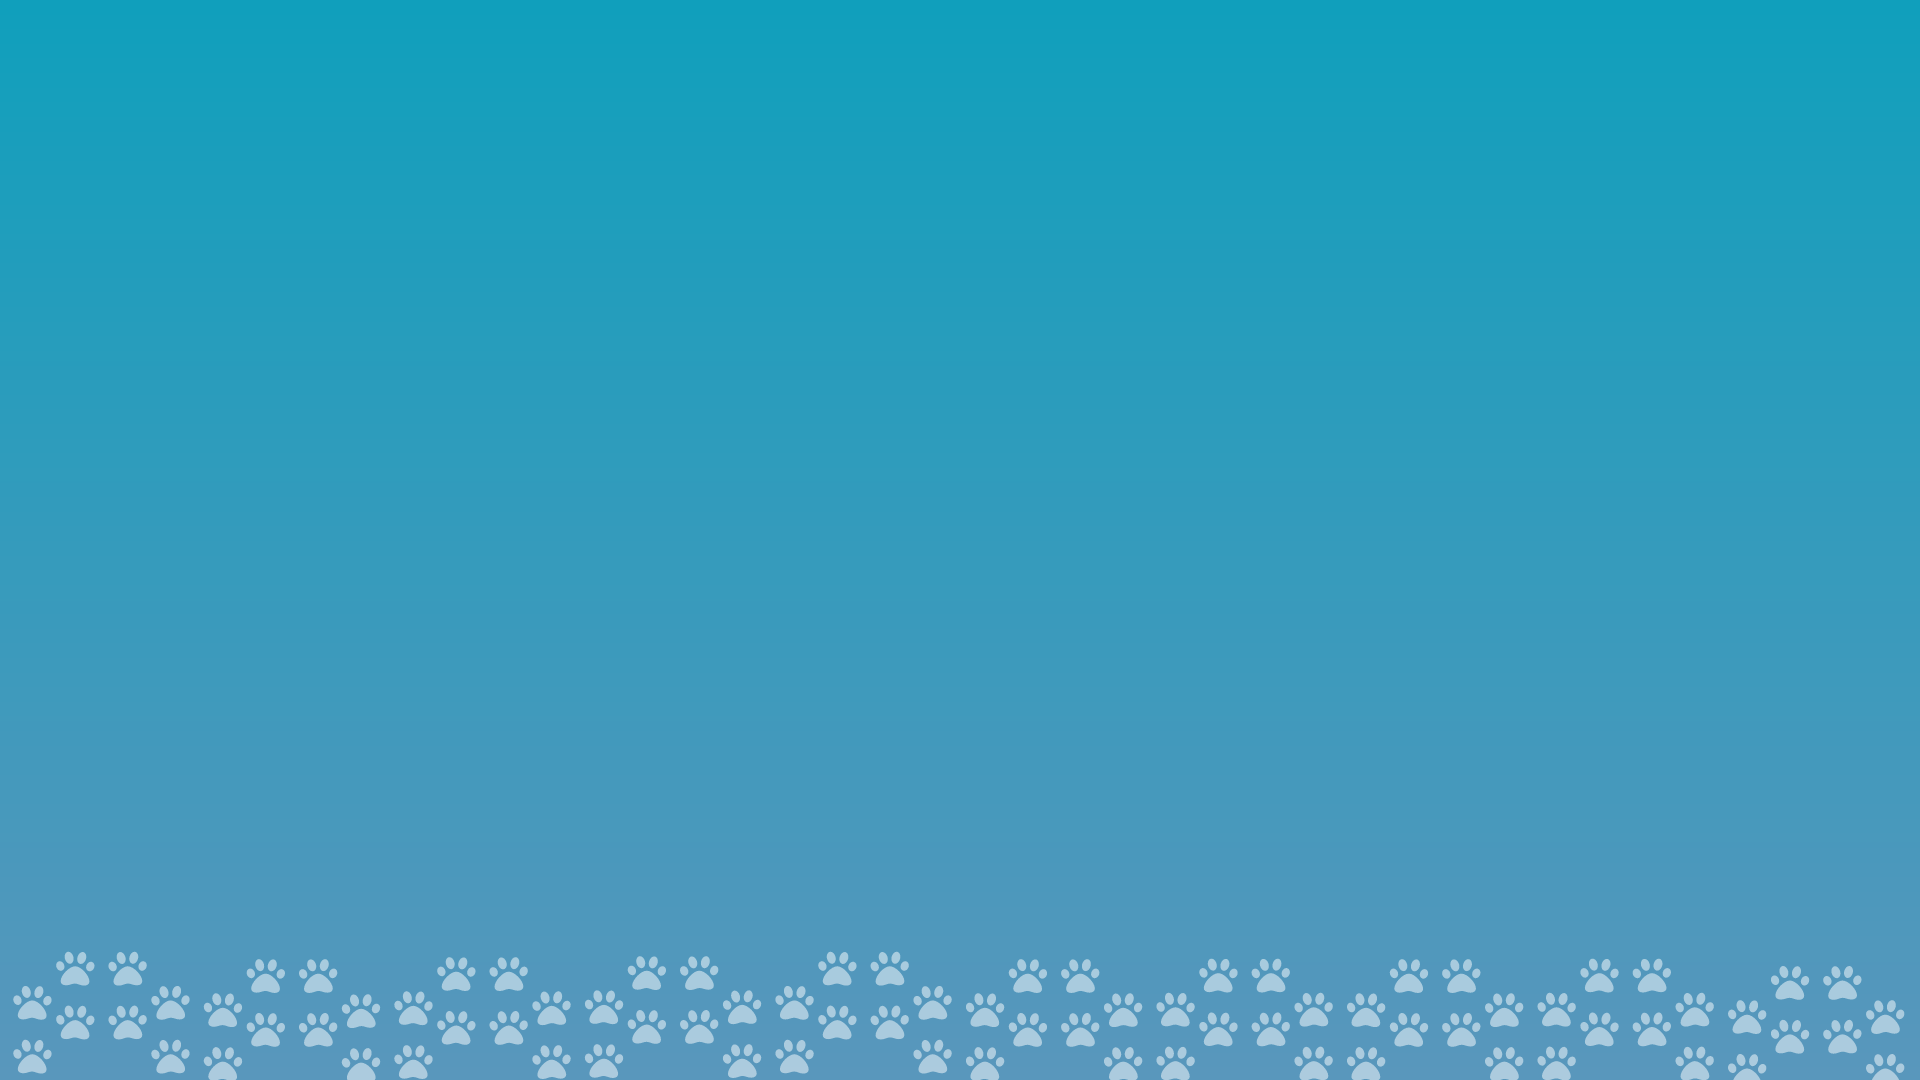
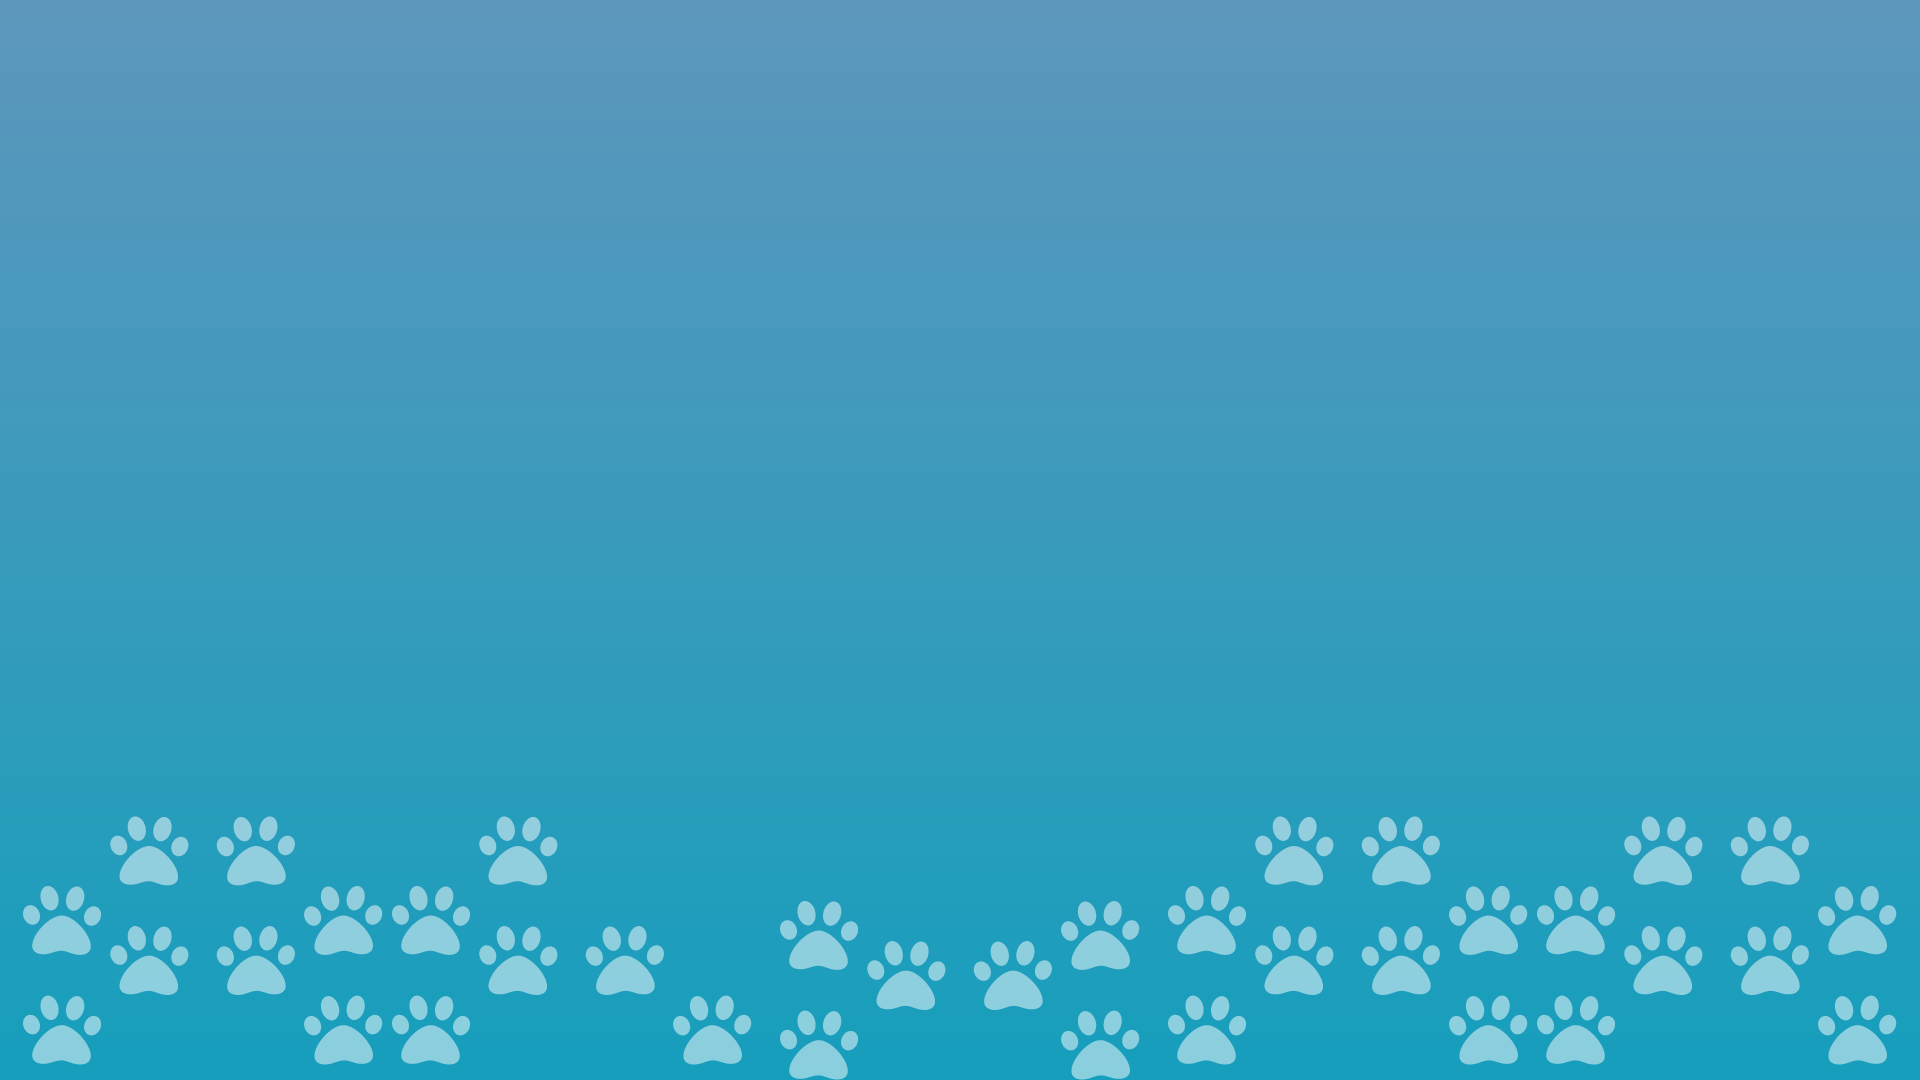
fix routes

diff --git a/petDiary/src/app/pages/login/login.module.ts b/petDiary/src/app/pages/login/login.module.ts
@@ -1,16 +1,25 @@
-import { NgModule } from '@angular/core';
+
 import { CommonModule } from '@angular/common';
-import { Routes, RouterModule } from '@angular/router';
-
-import { LoginRoutingModule } from './login-routing.module';
+import { NgModule } from '@angular/core';
+import { ReactiveFormsModule } from '@angular/forms';
+import { MatTableModule } from '@angular/material/table';
+import { MatCardModule } from '@angular/material/card';
+import { MatGridListModule } from '@angular/material/grid-list';
 import { LoginComponent } from './login.component';
+import { LoginPageRoutingModule } from './login-routing.module';
 
-export const ROUTES: Routes = [
-  { path: '', component: LoginComponent }
-];
 @NgModule({
-  imports: [RouterModule.forChild(ROUTES)],
-
-exports: [RouterModule],
+    imports: [
+      CommonModule,
+        MatTableModule,
+        MatCardModule,
+        MatGridListModule,
+        ReactiveFormsModule,
+        LoginPageRoutingModule,
+    ],
+    declarations: [
+      LoginComponent,
+    ],
+    exports: [LoginComponent],
 })
-export class LoginPageRoutingModule { }
+export class LoginAccountModule {}

diff --git a/petDiary/src/app/pages/posts/posts.module.ts b/petDiary/src/app/pages/posts/posts.module.ts
@@ -1,14 +1,25 @@
-import { NgModule } from '@angular/core';
-import { RouterModule, Routes } from '@angular/router';
-import { PostsComponent } from './posts.component';
 
-export const ROUTES: Routes = [
-  { path: '', component: PostsComponent }
-];
+import { CommonModule } from '@angular/common';
+import { NgModule } from '@angular/core';
+import { ReactiveFormsModule } from '@angular/forms';
+import { MatTableModule } from '@angular/material/table';
+import { MatCardModule } from '@angular/material/card';
+import { MatGridListModule } from '@angular/material/grid-list';
+import { PostsComponent } from './posts.component';
+import { PostsPageRoutingModule } from './posts-routing.module';
 
 @NgModule({
-  imports: [RouterModule.forChild(ROUTES)],
-
-exports: [RouterModule],
+    imports: [
+        CommonModule,
+        MatTableModule,
+        MatCardModule,
+        MatGridListModule,
+        ReactiveFormsModule,
+        PostsPageRoutingModule,
+    ],
+    declarations: [
+      PostsComponent,
+    ],
+    exports: [PostsComponent],
 })
-export class PostsPageRoutingModule { }
+export class LoginAccountModule {}

diff --git a/petDiary/src/app/pages/create-account/create-account.module.ts b/petDiary/src/app/pages/create-account/create-account.module.ts
@@ -1,15 +1,26 @@
+
+import { CommonModule } from '@angular/common';
 import { NgModule } from '@angular/core';
-import { Routes, RouterModule } from '@angular/router';
-
+import { ReactiveFormsModule } from '@angular/forms';
+import { MatTableModule } from '@angular/material/table';
+import { MatCardModule } from '@angular/material/card';
+import { MatGridListModule } from '@angular/material/grid-list';
 import { CreateAccountComponent } from './create-account.component';
+import { CreatePageRoutingModule } from './create-account-routing.module';
 
-export const ROUTES: Routes = [
-  { path: '', component: CreateAccountComponent }
-];
 @NgModule({
-  imports: [RouterModule.forChild(ROUTES)],
-
-exports: [RouterModule],
+    imports: [
+      CommonModule,
+        MatTableModule,
+        MatCardModule,
+        MatGridListModule,
+        ReactiveFormsModule,
+        CreatePageRoutingModule,
+    ],
+    declarations: [
+        CreateAccountComponent,
+    ],
+    exports: [CreateAccountComponent],
 })
-export class CreatePageRoutingModule { }
+export class CreateAccountModule {}
 

diff --git a/petDiary/src/app/app-routing.module.ts b/petDiary/src/app/app-routing.module.ts
@@ -2,11 +2,11 @@ import { NgModule } from '@angular/core';
 import { RouterModule, Routes } from '@angular/router';
 
 export const ROUTES: Routes = [
-  { path: 'login', loadChildren: () => import('./pages/login/login.module').then(module => module.LoginPageRoutingModule)},
-  { path: 'create-account', loadChildren: () => import('./pages/create-account/create-account.module').then(module => module.CreatePageRoutingModule)},
+  { path: 'login', loadChildren: () => import('./pages/login/login.module').then(module => module.LoginAccountModule)},
+  { path: 'create-account', loadChildren: () => import('./pages/create-account/create-account.module').then(module => module.CreateAccountModule)},
   { 
     path: 'posts', 
-    loadChildren: () => import('./pages/posts/posts.module').then(module => module.PostsPageRoutingModule),
+    loadChildren: () => import('./pages/posts/posts.module').then(module => module.LoginAccountModule),
   },
   { path: '', redirectTo: 'login', pathMatch: 'full' }
 ];

diff --git a/petDiary/src/app/pages/create-account/create-account-routing.module.ts b/petDiary/src/app/pages/create-account/create-account-routing.module.ts
@@ -1,10 +1,14 @@
 import { NgModule } from '@angular/core';
-import { RouterModule, Routes } from '@angular/router';
+import { Routes, RouterModule } from '@angular/router';
 
-const routes: Routes = [];
+import { CreateAccountComponent } from './create-account.component';
 
+export const ROUTES: Routes = [
+  { path: '', component: CreateAccountComponent }
+];
 @NgModule({
-  imports: [RouterModule.forChild(routes)],
-  exports: [RouterModule]
+  imports: [RouterModule.forChild(ROUTES)],
+
+exports: [RouterModule],
 })
-export class CreateAccountRoutingModule { }
+export class CreatePageRoutingModule { }

diff --git a/petDiary/src/app/pages/login/login-routing.module.ts b/petDiary/src/app/pages/login/login-routing.module.ts
@@ -1,10 +1,14 @@
 import { NgModule } from '@angular/core';
-import { RouterModule, Routes } from '@angular/router';
+import { Routes, RouterModule } from '@angular/router';
 
-const routes: Routes = [];
+import { LoginComponent } from './login.component';
 
+export const ROUTES: Routes = [
+  { path: '', component: LoginComponent }
+];
 @NgModule({
-  imports: [RouterModule.forChild(routes)],
-  exports: [RouterModule]
+  imports: [RouterModule.forChild(ROUTES)],
+
+exports: [RouterModule],
 })
-export class LoginRoutingModule { }
+export class LoginPageRoutingModule { }

diff --git a/petDiary/src/app/app.module.ts b/petDiary/src/app/app.module.ts
@@ -7,7 +7,7 @@ import { BrowserAnimationsModule } from '@angular/platform-browser/animations';
 import { ReactiveFormsModule } from '@angular/forms';
 import { HttpClientModule } from '@angular/common/http';
 import { NgbModule } from '@ng-bootstrap/ng-bootstrap';
-
+import { MatCardModule } from '@angular/material/card';
 
 @NgModule({
   declarations: [
@@ -20,6 +20,7 @@ import { NgbModule } from '@ng-bootstrap/ng-bootstrap';
     HttpClientModule,
     BrowserAnimationsModule,
     NgbModule,
+    MatCardModule,
   ],
   providers: [],
   bootstrap: [AppComponent]

diff --git a/petDiary/src/app/pages/posts/posts-routing.module.ts b/petDiary/src/app/pages/posts/posts-routing.module.ts
@@ -1,10 +1,14 @@
 import { NgModule } from '@angular/core';
 import { RouterModule, Routes } from '@angular/router';
+import { PostsComponent } from './posts.component';
 
-const routes: Routes = [];
+export const ROUTES: Routes = [
+  { path: '', component: PostsComponent }
+];
 
 @NgModule({
-  imports: [RouterModule.forChild(routes)],
-  exports: [RouterModule]
+  imports: [RouterModule.forChild(ROUTES)],
+
+exports: [RouterModule],
 })
-export class PostsRoutingModule { }
+export class PostsPageRoutingModule { }

diff --git a/petDiary/src/styles.scss b/petDiary/src/styles.scss
@@ -2,3 +2,14 @@
 
 /* Importing Bootstrap SCSS file. */
 @import '~bootstrap/scss/bootstrap';
+
+
+.background-paws {
+    background-image: url('/assets/background.png');
+    -webkit-background-size: cover;
+    -moz-background-size: cover;
+    background-size: cover;
+    -o-background-size: cover;
+    width: 100vw;
+    height: 100vh;
+}

diff --git a/petDiary/src/app/pages/login/login.component.html b/petDiary/src/app/pages/login/login.component.html
@@ -1,1 +1,3 @@
-<p>login works!</p>
+<div class="background-paws">
+    <mat-card>test</mat-card>
+</div>

diff --git a/petDiary/src/app/pages/create-account/create-account.component.html b/petDiary/src/app/pages/create-account/create-account.component.html
@@ -1,1 +1,1 @@
-<p>create-account works!</p>
+<div class="background-paws"></div>
